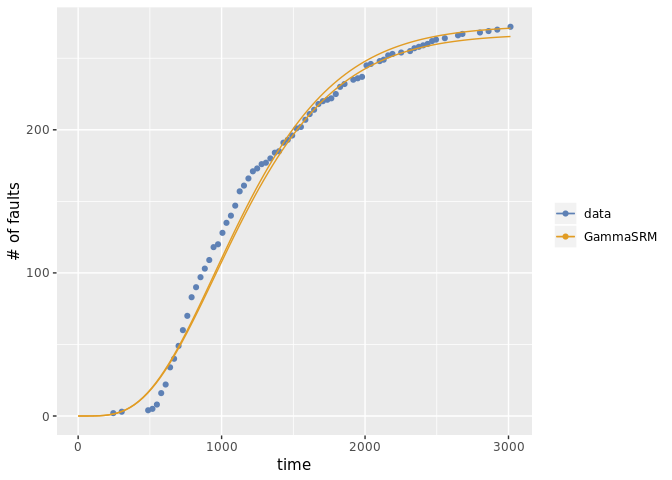
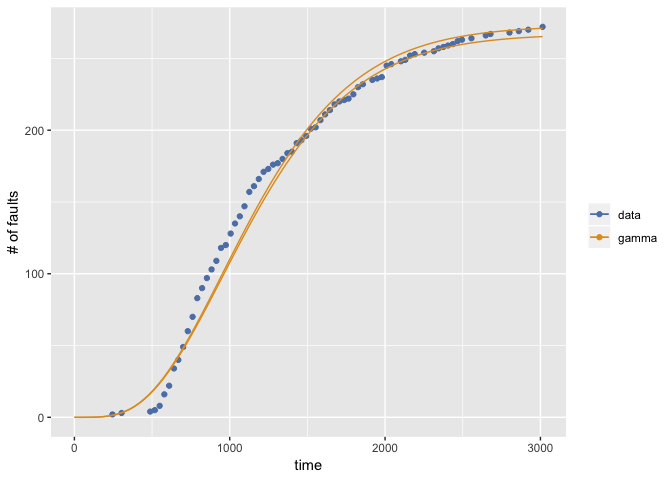
remove stopcond

diff --git a/README.md b/README.md
@@ -1,16 +1,22 @@
 
 <!-- README.md is generated from README.Rmd. Please edit that file -->
-msrat
-=====
 
-msrat provides the package to evalute the software reliability from the fault data collected in the testing phase. The data used in msrat are the fault data with d-metrics and s-metrics.
+# msrat
 
-The examples of d-metrics are the number of test cases, coverages, etc. for each time period such as a day and a week. They are the metrics to represent the software testing environment for the testing period, and dynamically change with the progress of software testing.
+msrat provides the package to evalute the software reliability from the
+fault data collected in the testing phase. The data used in msrat are
+the fault data with d-metrics and s-metrics.
 
-S-metrics are the number of codes, complexity, etc. and are the metrics for the software products. They are assumed to be stable through whole the software testing.
+The examples of d-metrics are the number of test cases, coverages, etc.
+for each time period such as a day and a week. They are the metrics to
+represent the software testing environment for the testing period, and
+dynamically change with the progress of software testing.
 
-Installation
-------------
+S-metrics are the number of codes, complexity, etc. and are the metrics
+for the software products. They are assumed to be stable through whole
+the software testing.
+
+## Installation
 
 You can install Rsrat from github with:
 
@@ -19,14 +25,14 @@ You can install Rsrat from github with:
 devtools::install_github("okamumu/msrat")
 ```
 
-Example
--------
+## Example
 
 This is an example for reliability evaluation with d-metrics.
 
 ``` r
 ### load library
 library(msrat)
+#> Loading required package: Rsrat
 
 ### load example data for d-metrics
 data(dmet)
@@ -150,10 +156,7 @@ dmet.ds1
 #> AIC: 79.07438 
 #> Convergence: TRUE
 
-### load Rsrat for drawing the graph
-library(Rsrat)
-
-### Draw the number of faults for each day and the number of faults estimated by the model
+### Draw the number of faults for each day and the number of faults estimated by the model (dmvplot is in Rsrat package)
 dmvfplot(fault=dmet.ds1$fault, dmvf=list(result.aic$srm))
 ```
 
@@ -309,7 +312,7 @@ data.tomcat5 <- list(catalina=tomcat5.catalina,
                                                    fault=d$fault,
                                                    srm.names=c("gamma"))))
 #> $catalina
-#> Model name: GammaSRM
+#> Model name: gamma
 #>     omega      shape       rate  
 #> 2.729e+02  4.677e+00  3.861e-03  
 #> Maximum LLF: -177.7182 
@@ -318,7 +321,7 @@ data.tomcat5 <- list(catalina=tomcat5.catalina,
 #> 
 #> 
 #> $connector
-#> Model name: GammaSRM
+#> Model name: gamma
 #>     omega      shape       rate  
 #> 89.335012   4.865692   0.003888  
 #> Maximum LLF: -110.3019 
@@ -327,7 +330,7 @@ data.tomcat5 <- list(catalina=tomcat5.catalina,
 #> 
 #> 
 #> $jasper
-#> Model name: GammaSRM
+#> Model name: gamma
 #>     omega      shape       rate  
 #> 74.042904   4.778298   0.004604  
 #> Maximum LLF: -92.44426 
@@ -336,7 +339,7 @@ data.tomcat5 <- list(catalina=tomcat5.catalina,
 #> 
 #> 
 #> $servlets
-#> Model name: GammaSRM
+#> Model name: gamma
 #>     omega      shape       rate  
 #> 57.031424   5.282532   0.004888  
 #> Maximum LLF: -83.21093 
@@ -345,16 +348,16 @@ data.tomcat5 <- list(catalina=tomcat5.catalina,
 #> 
 #> 
 #> $tester
-#> Model name: GammaSRM
+#> Model name: gamma
 #>    omega     shape      rate  
-#>      1.0  163562.2      84.6  
+#>      1.0  163562.5      84.6  
 #> Maximum LLF: -1.001187 
 #> AIC: 8.002374 
 #> Convergence: TRUE 
 #> 
 #> 
 #> $webapps
-#> Model name: GammaSRM
+#> Model name: gamma
 #>     omega      shape       rate  
 #> 65.826028   2.752425   0.002343  
 #> Maximum LLF: -105.1848 
@@ -376,27 +379,27 @@ data.tomcat5 <- list(catalina=tomcat5.catalina,
 #>  3.715768e+00  5.507954e-05 -1.279337e-04 
 #> 
 #> catalina
-#> Model name: GammaSRM
+#> Model name: gamma
 #> [1]  2.670e+02  4.680e+00  3.864e-03
 #> 
 #> connector
-#> Model name: GammaSRM
+#> Model name: gamma
 #> [1]  96.924516   4.853124   0.003875
 #> 
 #> jasper
-#> Model name: GammaSRM
+#> Model name: gamma
 #> [1]  56.327808   4.785058   0.004612
 #> 
 #> servlets
-#> Model name: GammaSRM
+#> Model name: gamma
 #> [1]  75.165793   5.272732   0.004877
 #> 
 #> tester
-#> Model name: GammaSRM
+#> Model name: gamma
 #> [1]  4.498e+01  2.211e+00  9.050e-05
 #> 
 #> webapps
-#> Model name: GammaSRM
+#> Model name: gamma
 #> [1]  63.605977   2.760161   0.002353
 #> Maximum LLF: -579.6683 
 #> AIC: 1189.337 

diff --git a/NEWS.md b/NEWS.md
@@ -1,3 +1,7 @@
+# msrat 1.5.1
+
+* Modify to fit to the latest Rsrat
+
 # msrat 1.5.0
 
 * Refactoring: msrat is branched from Rsrat.
